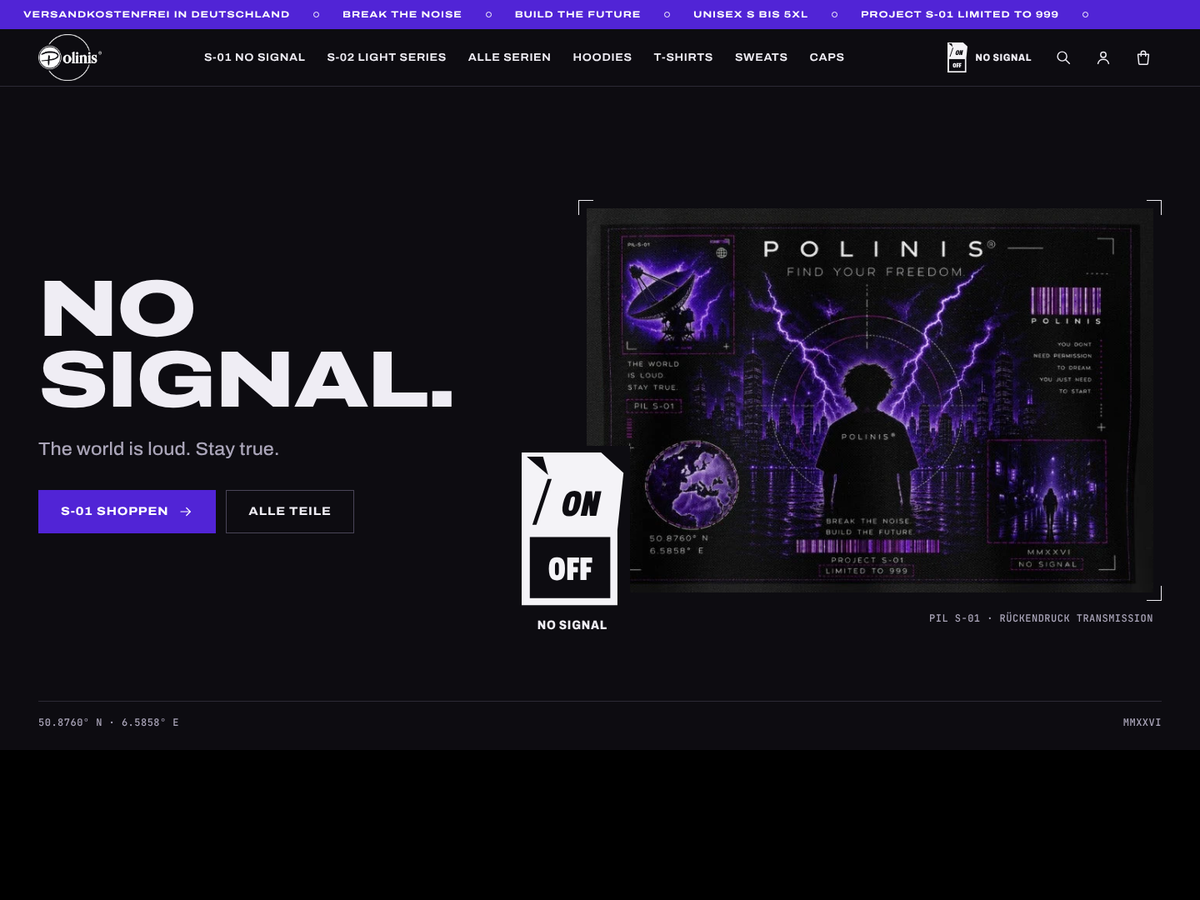
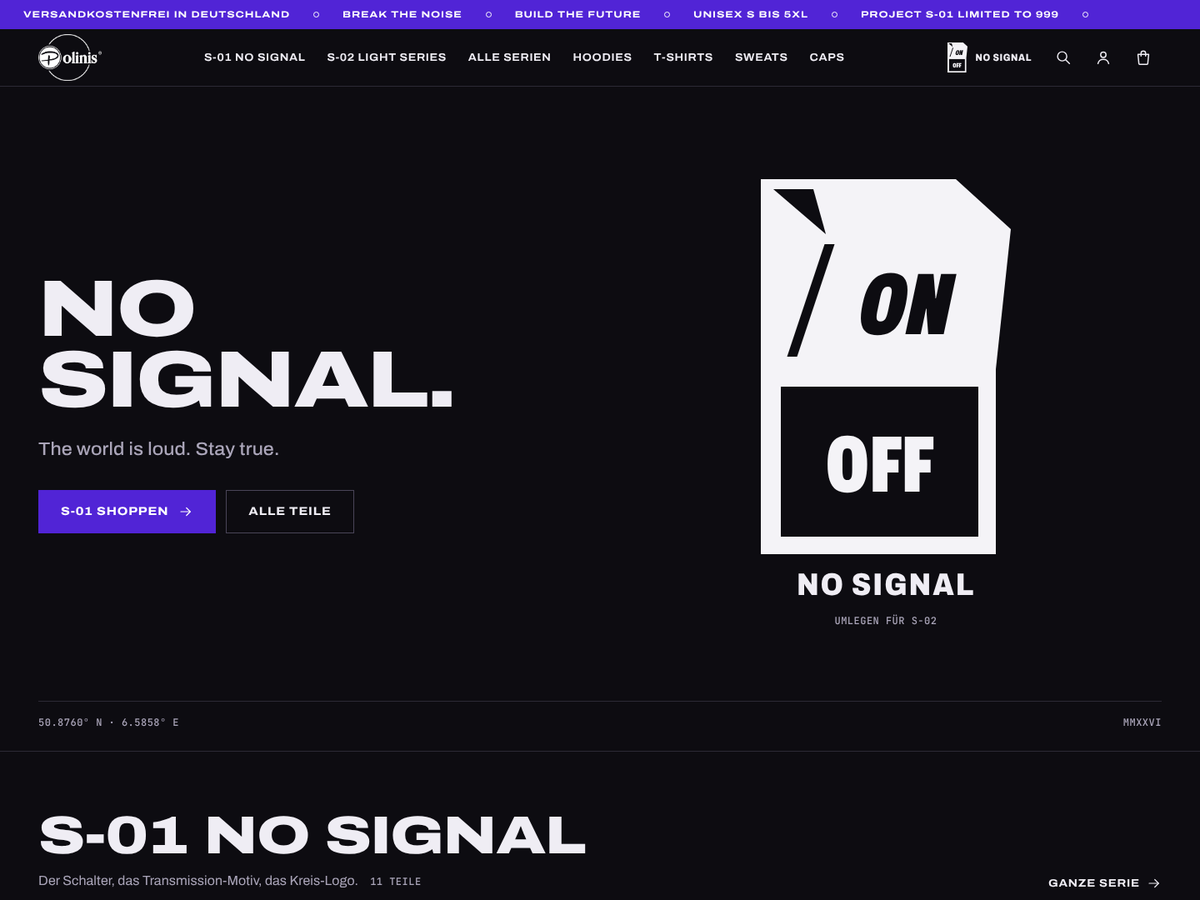
Schalter als Hauptmotiv, Figuren-Artworks und KI-Foto entfernt
Die Startseite zeigt rechts den großen ON/OFF-Schalter statt der
Serien-Artworks. Überall sonst echte Produktfotos: Manifest mit dem
Switch-Hoodie, 'Licht an/aus' und Serienseite mit Produktpaaren.

Claude-Session: https://claude.ai/code/session_01MPyp2hJs9FzBtFF2bzpWwe

diff --git a/wp-content/themes/polinis/assets/css/main.css b/wp-content/themes/polinis/assets/css/main.css
@@ -452,12 +452,13 @@ button {
 }
 
 .switch--hero {
-	--sw-w: clamp(104px, 9.6vw, 148px);
-	--sw-gap: 8px;
+	--sw-w: clamp(200px, 21vw, 300px);
+	gap: 18px;
 }
 
 .switch--hero .switch__caption {
-	font-size: 0.9375rem;
+	font-size: clamp(1.5rem, 2.6vw, 2.5rem);
+	font-weight: 850;
 }
 
 .switch--mini {
@@ -811,31 +812,18 @@ button {
 }
 
 .hero__stage {
-	position: relative;
-	grid-column: 6 / -1;
+	grid-column: 7 / -1;
 	grid-row: 1;
 	align-self: center;
-	padding: 10px 10px 10px clamp(56px, 6vw, 96px);
+	justify-self: center;
+	display: grid;
+	justify-items: center;
+	gap: var(--s-4);
+	padding-bottom: var(--s-6);
 }
 
-.hero__screen .frame img {
-	width: 100%;
-	aspect-ratio: 730 / 495;
-	object-fit: cover;
-	background: var(--bg-2);
-}
-
-.hero__caption {
-	margin-top: 22px;
+.hero__hint {
 	color: var(--ink-2);
-	text-align: right;
-}
-
-.hero__switch {
-	position: absolute;
-	left: 0;
-	bottom: 4px;
-	z-index: 2;
 }
 
 .hero__data {
@@ -867,18 +855,8 @@ button {
 	.hero__stage {
 		grid-column: 1;
 		grid-row: 2;
-		padding: 10px;
-	}
-
-	.hero__caption {
-		margin-top: 22px;
-		padding-left: 100px;
-		text-align: left;
-	}
-
-	.hero__switch {
-		left: 18px;
-		bottom: -6px;
+		justify-self: center;
+		padding-bottom: 0;
 	}
 
 	.hero__data {
@@ -886,13 +864,12 @@ button {
 	}
 
 	.switch--hero {
-		--sw-w: 76px;
-		--sw-gap: 6px;
-		gap: 6px;
+		--sw-w: min(46vw, 210px);
+		gap: 12px;
 	}
 
 	.switch--hero .switch__caption {
-		font-size: 0.75rem;
+		font-size: 1.375rem;
 	}
 }
 
@@ -1156,12 +1133,18 @@ button {
 	color: var(--on-violet-2);
 }
 
+.manifesto__photo {
+	display: grid;
+	place-items: center;
+	padding: clamp(24px, 4vw, 64px);
+}
+
 .manifesto__photo img {
 	width: 100%;
-	height: 100%;
-	min-height: 420px;
+	max-width: 560px;
+	aspect-ratio: 1;
 	object-fit: cover;
-	object-position: 50% 25%;
+	mix-blend-mode: multiply;
 }
 
 @media (max-width: 900px) {
@@ -1283,10 +1266,17 @@ button {
 	padding: var(--s-8) var(--gutter);
 }
 
-.flip__art {
+.flip__pair {
+	display: grid;
+	grid-template-columns: 1fr 1fr;
+	gap: var(--s-2);
+}
+
+.flip__pair img {
 	width: 100%;
-	aspect-ratio: 3 / 2;
+	aspect-ratio: 1;
 	object-fit: cover;
+	background: var(--tile);
 }
 
 .flip__copy {
@@ -2536,13 +2526,17 @@ select,
 }
 
 .series-row__media {
-	margin: 10px;
+	display: grid;
+	grid-template-columns: 1fr 1fr;
+	gap: var(--s-2);
 }
 
 .series-row__media img {
 	width: 100%;
-	aspect-ratio: 3 / 2;
+	aspect-ratio: 1;
 	object-fit: cover;
+	background: var(--tile);
+	mix-blend-mode: var(--tile-blend);
 }
 
 .series-row__body {

diff --git a/wp-content/themes/polinis/front-page.php b/wp-content/themes/polinis/front-page.php
@@ -9,7 +9,7 @@ $polinis_s01     = polinis_series_products( 's-01', 12 );
 $polinis_s02     = polinis_series_products( 's-02', 12 );
 $polinis_ess     = polinis_series_products( 'essentials', 8 );
 $polinis_tracks  = array(
-	'off' => array( 'slug' => 's-01', 'name' => 'S-01 No Signal', 'products' => $polinis_s01, 'line' => __( 'Der Schalter, das Transmission-Artwork, das Kreis-Logo.', 'polinis' ) ),
+	'off' => array( 'slug' => 's-01', 'name' => 'S-01 No Signal', 'products' => $polinis_s01, 'line' => __( 'Der Schalter, das Transmission-Motiv, das Kreis-Logo.', 'polinis' ) ),
 	'on'  => array( 'slug' => 's-02', 'name' => 'S-02 Light Series', 'products' => $polinis_s02, 'line' => __( 'Fadenkreuz, Wortmarke und die Light-Series-Collage.', 'polinis' ) ),
 );
 $polinis_cats    = array( 'hoodies' => 'Hoodies', 't-shirts' => 'T-Shirts', 'sweatshirts' => 'Sweatshirts', 'caps' => 'Caps', 'polos-jacken' => 'Polos & Jacken' );
@@ -34,20 +34,11 @@ $polinis_cats    = array( 'hoodies' => 'Hoodies', 't-shirts' => 'T-Shirts', 'swe
 		</div>
 
 		<div class="hero__stage">
-			<figure class="hero__screen">
-				<div class="frame">
-				<img data-when="off" src="<?php echo esc_url( $polinis_img . 'art-s01.webp' ); ?>" width="730" height="495" alt="<?php esc_attr_e( 'S-01 Artwork: Silhouette vor einer Stadt im Gewitter, Schriftzug Polinis – Find your freedom', 'polinis' ); ?>" fetchpriority="high">
-				<img data-when="on" src="<?php echo esc_url( $polinis_img . 'art-s02.webp' ); ?>" width="760" height="515" alt="<?php esc_attr_e( 'S-02 Artwork: Collage mit Kapuzenfigur, Skyline und dem Satz Create your world. Wear your story.', 'polinis' ); ?>" loading="lazy">
-				</div>
-				<figcaption class="hero__caption mono">
-					<span data-when="off">PIL S-01 · Rückendruck Transmission</span>
-					<span data-when="on">PIL S-02 · Rückendruck Light Series</span>
-				</figcaption>
-			</figure>
-
-			<div class="hero__switch">
-				<?php echo polinis_switch( 'hero' ); // phpcs:ignore WordPress.Security.EscapeOutput ?>
-			</div>
+			<?php echo polinis_switch( 'hero' ); // phpcs:ignore WordPress.Security.EscapeOutput ?>
+			<p class="hero__hint mono">
+				<span data-when="off"><?php esc_html_e( 'Umlegen für S-02', 'polinis' ); ?></span>
+				<span data-when="on"><?php esc_html_e( 'Umlegen für S-01', 'polinis' ); ?></span>
+			</p>
 		</div>
 
 		<p class="hero__data mono">
@@ -76,11 +67,11 @@ $polinis_cats    = array( 'hoodies' => 'Hoodies', 't-shirts' => 'T-Shirts', 'swe
 	<section class="manifesto" aria-labelledby="manifesto-title">
 		<div class="manifesto__inner">
 			<h2 id="manifesto-title" class="manifesto__quote">You don’t need permission to dream. You just need to start.</h2>
-			<p class="manifesto__text"><?php esc_html_e( 'Der Satz steht klein auf dem S-01-Artwork. Jede Polinis-Serie trägt ihre eigene Geschichte: Projektnummer, Jahr, Koordinaten, ein Motiv. Kein Logo-Shirt von der Stange, sondern ein Kapitel, das du anziehst.', 'polinis' ); ?></p>
+			<p class="manifesto__text"><?php esc_html_e( 'Der Satz steht klein auf dem S-01-Druck. Jede Polinis-Serie trägt ihre eigene Geschichte: Projektnummer, Jahr, Koordinaten, ein Motiv. Kein Logo-Shirt von der Stange, sondern ein Kapitel, das du anziehst.', 'polinis' ); ?></p>
 			<p class="manifesto__sign mono">Break the noise · Build the future</p>
 		</div>
 		<figure class="manifesto__photo">
-			<img src="<?php echo esc_url( $polinis_img . 'life-night.webp' ); ?>" width="1122" height="1402" alt="<?php esc_attr_e( 'Person im schwarzen Polinis Crosshair Hoodie vor Betonwand', 'polinis' ); ?>" loading="lazy">
+			<img src="<?php echo esc_url( polinis_series_photo( 's-01', 0 ) ); ?>" width="1200" height="1200" alt="<?php esc_attr_e( 'No Signal Switch Hoodie, Rückseite mit ON/OFF-Schalter', 'polinis' ); ?>" loading="lazy">
 		</figure>
 	</section>
 
@@ -108,18 +99,24 @@ $polinis_cats    = array( 'hoodies' => 'Hoodies', 't-shirts' => 'T-Shirts', 'swe
 
 	<section class="flip" aria-label="<?php esc_attr_e( 'Andere Serie', 'polinis' ); ?>">
 		<div class="flip__set" data-when="off">
-			<img class="flip__art" src="<?php echo esc_url( $polinis_img . 'art-s02.webp' ); ?>" alt="" width="760" height="515" loading="lazy">
+			<div class="flip__pair">
+				<img src="<?php echo esc_url( polinis_series_photo( 's-02', 0, 'woocommerce_thumbnail' ) ); ?>" alt="" width="720" height="720" loading="lazy">
+				<img src="<?php echo esc_url( polinis_series_photo( 's-02', 1, 'woocommerce_thumbnail' ) ); ?>" alt="" width="720" height="720" loading="lazy">
+			</div>
 			<div class="flip__copy">
 				<h2 class="flip__title"><?php esc_html_e( 'Licht an?', 'polinis' ); ?></h2>
-				<p><?php esc_html_e( 'S-02 Light Series: gleiche Haltung, anderes Licht. Ein Klick und der ganze Shop dreht.', 'polinis' ); ?></p>
+				<p><?php esc_html_e( 'S-02 Light Series: Fadenkreuz, Wortmarke, helle Stoffe. Ein Klick und der ganze Shop dreht.', 'polinis' ); ?></p>
 				<button class="btn btn--primary" type="button" data-signal-set="on"><?php esc_html_e( 'Auf ON schalten', 'polinis' ); ?></button>
 			</div>
 		</div>
 		<div class="flip__set" data-when="on">
-			<img class="flip__art" src="<?php echo esc_url( $polinis_img . 'art-s01.webp' ); ?>" alt="" width="730" height="495" loading="lazy">
+			<div class="flip__pair">
+				<img src="<?php echo esc_url( polinis_series_photo( 's-01', 0, 'woocommerce_thumbnail' ) ); ?>" alt="" width="720" height="720" loading="lazy">
+				<img src="<?php echo esc_url( polinis_series_photo( 's-01', 3, 'woocommerce_thumbnail' ) ); ?>" alt="" width="720" height="720" loading="lazy">
+			</div>
 			<div class="flip__copy">
 				<h2 class="flip__title"><?php esc_html_e( 'Licht aus?', 'polinis' ); ?></h2>
-				<p><?php esc_html_e( 'S-01 No Signal: der Schalter, das Gewitter, die Nacht. Ein Klick und der ganze Shop dreht.', 'polinis' ); ?></p>
+				<p><?php esc_html_e( 'S-01 No Signal: der Schalter, das Kreis-Logo, die Nacht. Ein Klick und der ganze Shop dreht.', 'polinis' ); ?></p>
 				<button class="btn btn--primary" type="button" data-signal-set="off"><?php esc_html_e( 'Auf OFF schalten', 'polinis' ); ?></button>
 			</div>
 		</div>

diff --git a/wp-content/themes/polinis/inc/series.php b/wp-content/themes/polinis/inc/series.php
@@ -16,8 +16,8 @@ function polinis_series() {
 			'name'   => 'No Signal',
 			'status' => 'live',
 			'motto'  => 'The world is loud. Stay true.',
-			'text'   => __( 'Der ON/OFF-Schalter, das Transmission-Artwork im Gewitter, das Kreis-Logo. Die dunkle Hälfte des Labels.', 'polinis' ),
-			'image'  => $img . 'art-s01.webp',
+			'text'   => __( 'Der ON/OFF-Schalter, das Transmission-Motiv, das Kreis-Logo. Die dunkle Hälfte des Labels.', 'polinis' ),
+			'image'  => '',
 			'world'  => 'off',
 		),
 		's-02'       => array(
@@ -26,7 +26,7 @@ function polinis_series() {
 			'status' => 'live',
 			'motto'  => 'Create your world. Wear your story.',
 			'text'   => __( 'Fadenkreuz, Wortmarke und die Light-Series-Collage. Die helle Hälfte.', 'polinis' ),
-			'image'  => $img . 'art-s02.webp',
+			'image'  => '',
 			'world'  => 'on',
 		),
 		's-03'       => array(
@@ -57,6 +57,17 @@ function polinis_series() {
 			'image'  => $img . 'series/s-05-homebase.webp',
 		),
 	);
+}
+
+/**
+ * Produktfoto aus einer Serie (n-tes Produkt nach Reihenfolge).
+ */
+function polinis_series_photo( $serie, $n = 0, $size = 'woocommerce_single' ) {
+	$products = polinis_series_products( $serie, $n + 1 );
+	if ( empty( $products[ $n ] ) ) {
+		return '';
+	}
+	return (string) wp_get_attachment_image_url( $products[ $n ]->get_image_id(), $size );
 }
 
 function polinis_series_concepts() {

diff --git a/wp-content/themes/polinis/page-serien.php b/wp-content/themes/polinis/page-serien.php
@@ -19,8 +19,9 @@ get_header();
 		<?php foreach ( polinis_series() as $polinis_slug => $polinis_s ) : ?>
 			<?php if ( 'live' === $polinis_s['status'] ) : ?>
 				<article class="series-row" id="<?php echo esc_attr( $polinis_slug ); ?>">
-					<figure class="series-row__media frame">
-						<img src="<?php echo esc_url( $polinis_s['image'] ); ?>" alt="" width="760" height="515" loading="lazy">
+					<figure class="series-row__media">
+						<img src="<?php echo esc_url( polinis_series_photo( $polinis_slug, 0 ) ); ?>" alt="" width="1200" height="1200" loading="lazy">
+						<img src="<?php echo esc_url( polinis_series_photo( $polinis_slug, 1 ) ); ?>" alt="" width="1200" height="1200" loading="lazy">
 					</figure>
 					<div class="series-row__body">
 						<h2 class="next__name"><span class="next__code"><?php echo esc_html( $polinis_s['code'] ); ?></span> <?php echo esc_html( $polinis_s['name'] ); ?></h2>

diff --git a/wp-content/themes/polinis/woocommerce/archive-product.php b/wp-content/themes/polinis/woocommerce/archive-product.php
@@ -13,7 +13,7 @@ get_header( 'shop' );
 $polinis_term  = is_product_taxonomy() ? get_queried_object() : null;
 $polinis_title = $polinis_term ? $polinis_term->name : __( 'Alle Teile', 'polinis' );
 $polinis_desc  = $polinis_term ? term_description( $polinis_term ) : '<p>' . esc_html__( 'Drei Linien, ein Label: S-01 No Signal, S-02 Light Series und die Essentials.', 'polinis' ) . '</p>';
-$polinis_art   = array( 's-01' => 'art-s01.webp', 's-02' => 'art-s02.webp' );
+$polinis_art   = array();
 $polinis_chips = array(
 	array( polinis_shop_url(), __( 'Alle', 'polinis' ), is_shop() ),
 	array( polinis_term_link( 's-01' ), 'S-01 No Signal', is_product_tag( 's-01' ) ),

diff --git a/docs/design-brief.md b/docs/design-brief.md
@@ -13,7 +13,7 @@ OWN-WORLD: OFF = violett getöntes Schwarz (#0d0c11), Text Off-White, Feldfarbe 
 
 STORY: Besucher sieht sofort Serie + Schalter, legt ihn um, versteht „zwei Welten, ein Label“, scrollt in die Serie, öffnet ein Teil.
 
-FIRST VIEWPORT: Links riesige Headline „No Signal.“ / „Light Series.“ (Archivo 125/800), darunter die Druckzeile und der Shop-Button. Rechts das Serien-Artwork vom Druck in einem Rahmen mit Eckmarken. Der große Schalter sitzt auf der Kante zwischen beiden. Koordinaten + MMXXVI als Datenzeile unten.
+FIRST VIEWPORT: Links riesige Headline „No Signal.“ / „Light Series.“ (Archivo 125/800), darunter die Druckzeile und der Shop-Button. Rechts der Schalter selbst als großes Motiv (Nachzeichnung des Drucks), darunter NO SIGNAL / SIGNAL. Koordinaten + MMXXVI als Datenzeile unten. Keine Figuren-Artworks.
 
 FORM: Eigene Ableitung (Launcher nicht verfügbar), Rang 1 von 7 Kandidaten. seed: none (unavailable)
 

diff --git a/docs/KONZEPT.md b/docs/KONZEPT.md
@@ -4,7 +4,7 @@
 
 Polinis hat zwei Serien, die sich verhalten wie Ein und Aus – also bekommt der Shop einen Schalter: **OFF** ist die dunkle **S-01 „No Signal“**, **ON** die helle **S-02 „Light Series“**. Ein Klick, und der ganze Shop wechselt die Welt.
 
-Der Schalter ist kein Gimmick, den es irgendwo gibt. Er ist **das Motiv von den eigenen Hoodies** (der ON/OFF-Kippschalter mit „No Signal“). Die Marke hatte ihre Geschichte schon – sie stand nur auf den Rücken der Teile und nicht im Shop.
+Der Schalter ist kein Gimmick, den es irgendwo gibt. Er ist **das Motiv von den eigenen Hoodies** (der ON/OFF-Kippschalter mit „No Signal“). Die Marke hatte ihre Geschichte schon – sie stand nur auf den Rücken der Teile und nicht im Shop. Deshalb ist der Schalter auch das große Motiv auf der Startseite: Man kann ihn direkt umlegen.
 
 ## Was in den Drucken steckt (und jetzt im Shop sichtbar ist)
 
